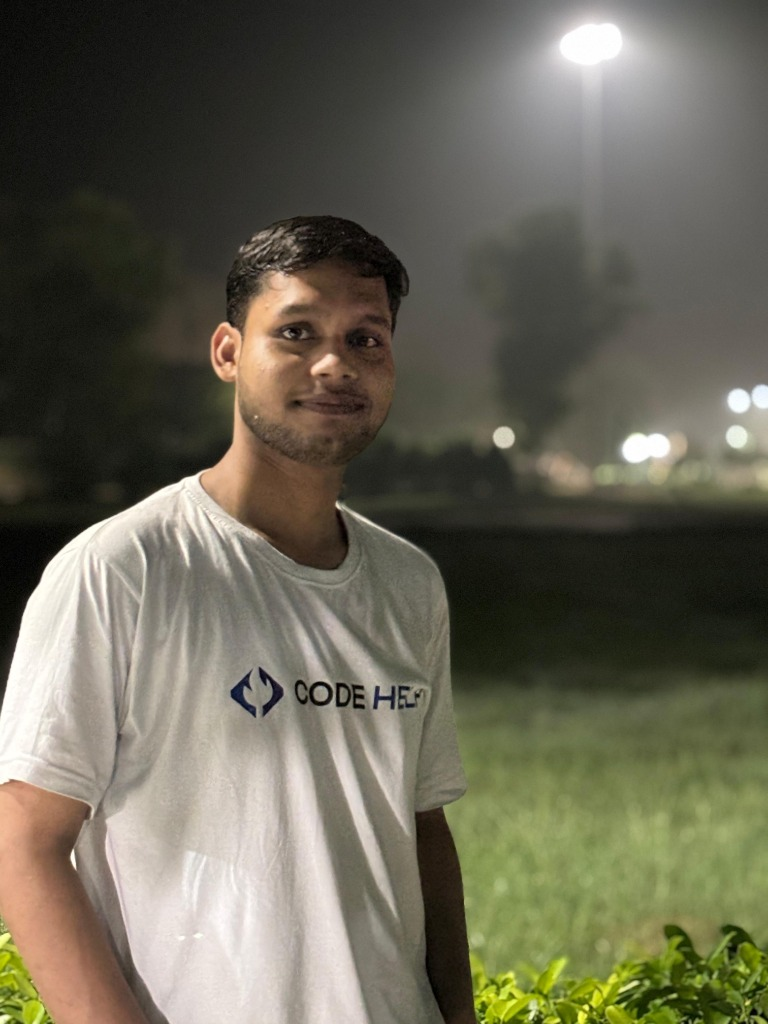
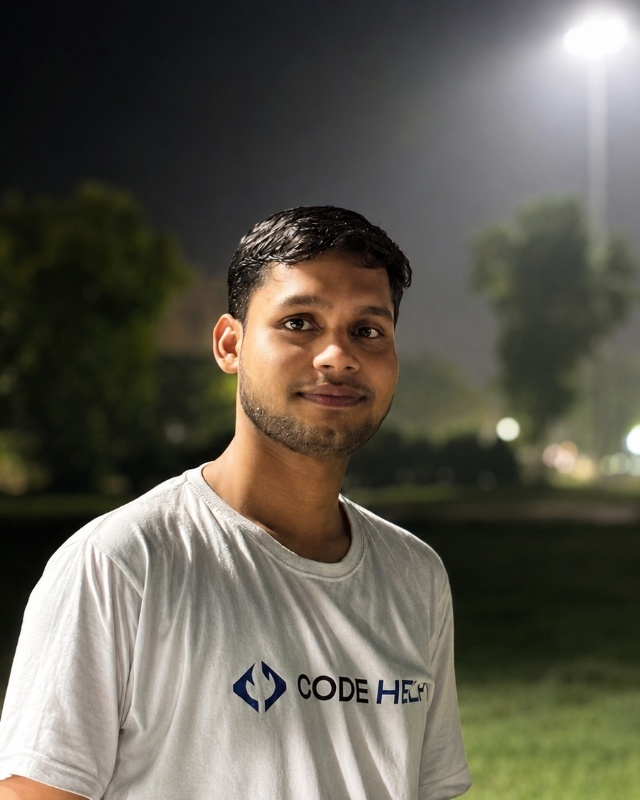
Update profile portrait with high-res image and perfect subject centering

diff --git a/client/src/index.css b/client/src/index.css
@@ -390,9 +390,8 @@ html, body {
   width: 100%;
   height: 100%;
   object-fit: cover;
-  object-position: 30% 22%;
+  object-position: center center;
   display: block;
-  transform: scale(1.02);
 }
 
 .hero-avatar-badge {
@@ -530,7 +529,7 @@ html, body {
   }
 
   .hero-avatar-img {
-    object-position: 30% 22%;
+    object-position: center center;
   }
 
   .hero-avatar-badge {
